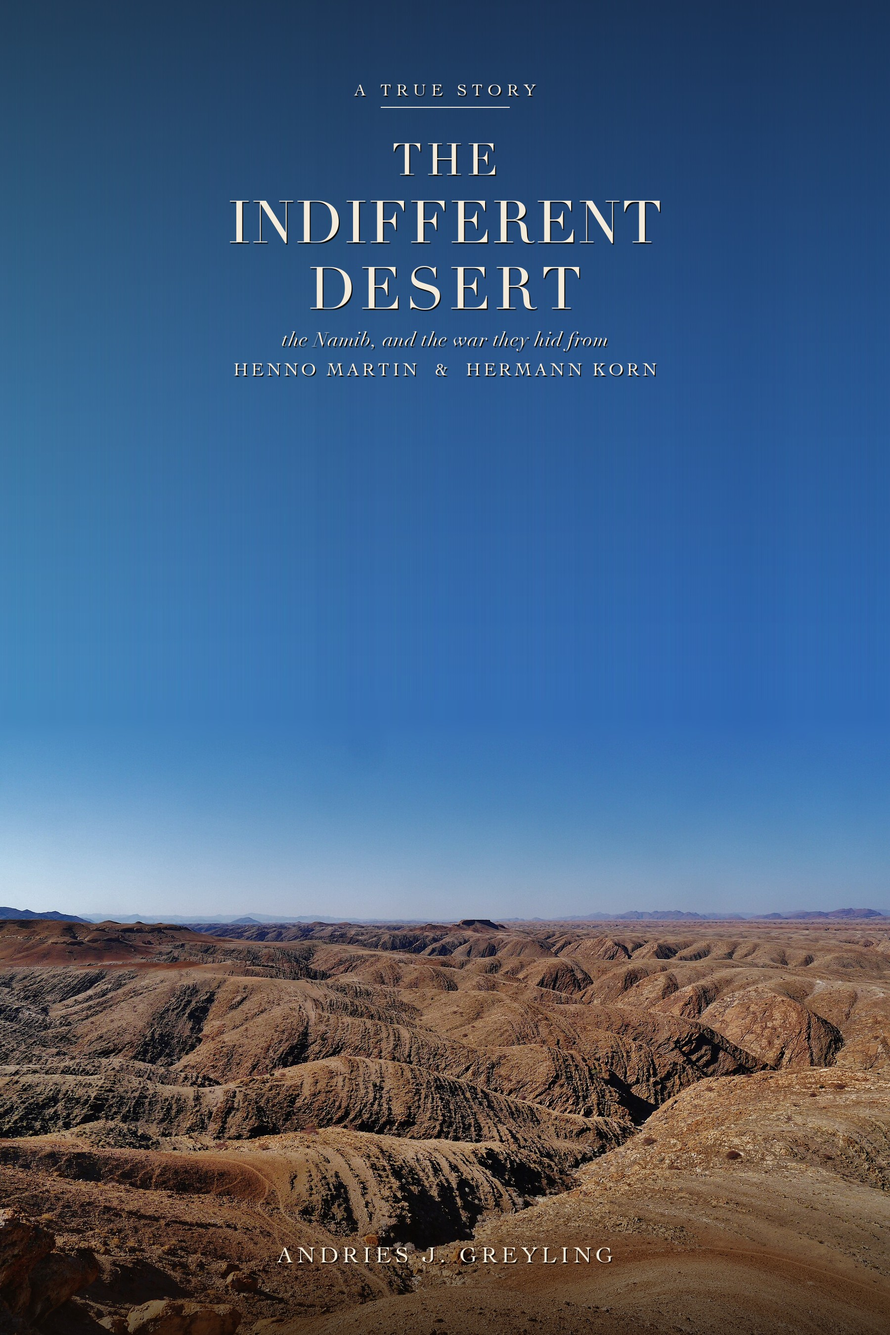
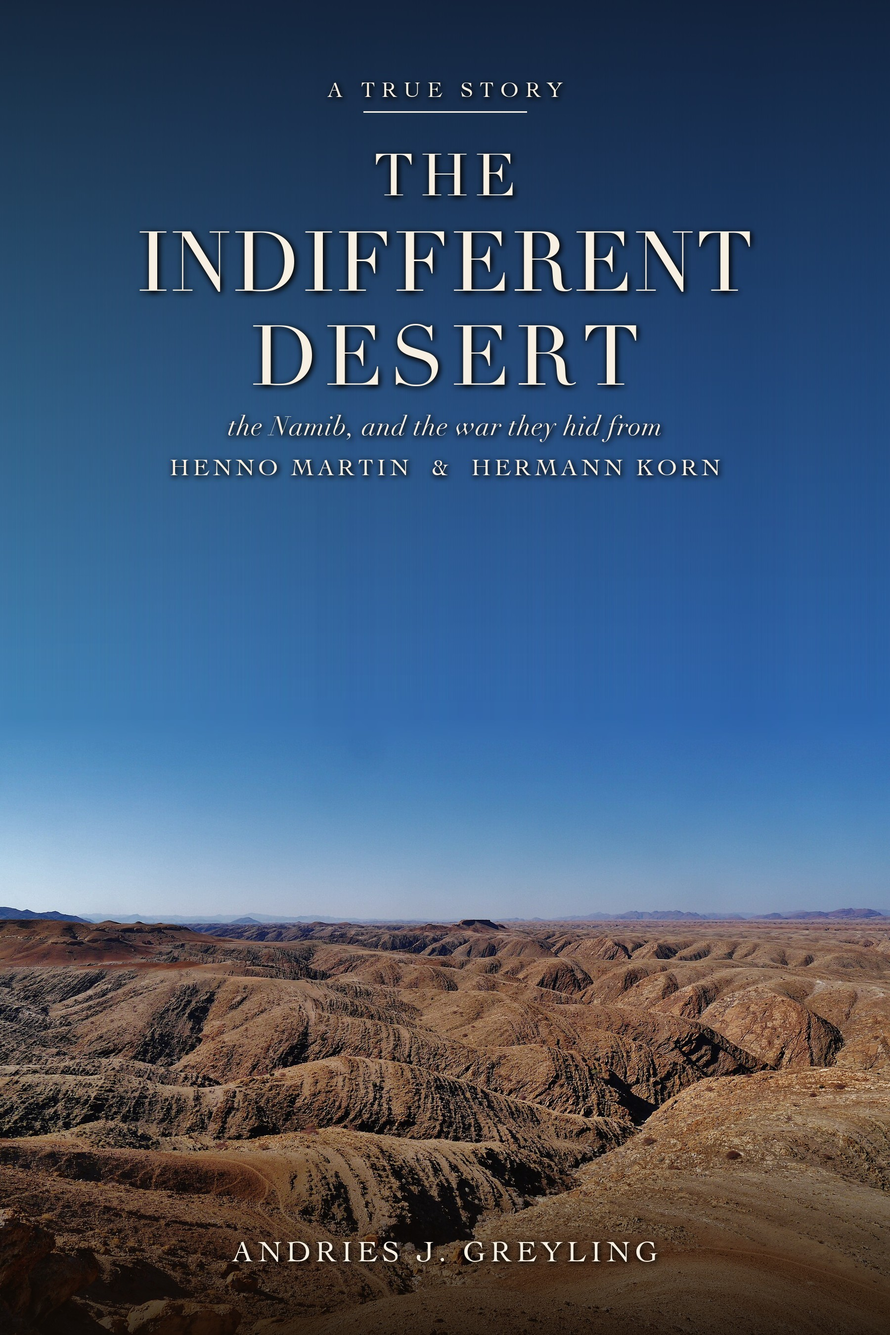
Covers: enlarge + strengthen title typography for legibility
Both *The Indifferent Desert* and *A Man They All Read Wrong* had thin
Didot title type set small for the 1800x2700 plate, dissolving into the
bright sky / sunburst behind it. Scale the title and supporting lines up,
and replace the flat 2px drop-shadow with a blurred dark glow (the
already-imported ImageFilter) plus deeper legibility scrims so the strokes
hold up over the busy artwork. Scripts remain re-runnable from the plate.

diff --git a/books/the-sheltering-desert/design/make_cover.py b/books/the-sheltering-desert/design/make_cover.py
@@ -16,8 +16,8 @@ PLATE = HERE / "cover-plate.png"
 OUT_PNG = [HERE / "cover.png", HERE.parent / "build" / "export" / "cover.png"]
 OUT_JPG = HERE / "cover.jpg"
 
-INK = (244, 234, 217, 255)        # warm off-white
-SHADOW = (16, 10, 5, 205)         # warm near-black
+INK = (247, 239, 225, 255)        # warm off-white
+SHADOW = (10, 6, 3, 235)          # warm near-black, near-opaque for punch
 
 DIDOT = "/System/Library/Fonts/Supplemental/Didot.ttc"
 COCHIN = "/System/Library/Fonts/Supplemental/Cochin.ttc"
@@ -34,15 +34,34 @@ def text_width(draw, s, fnt, tracking):
     return w - tracking if s else 0
 
 
-def draw_tracked(draw, cx, y, s, fnt, tracking, fill, shadow=True):
-    """Draw letter-spaced text centred on cx at baseline-top y."""
-    total = text_width(draw, s, fnt, tracking)
+def _place_glyphs(d, cx, y, s, fnt, tracking, fill, dx=0, dy=0):
+    """Letter-space string s centred on cx, drawn into draw-context d with optional offset."""
+    total = text_width(d, s, fnt, tracking)
     x = cx - total / 2
     for ch in s:
-        if shadow:
-            draw.text((x + 2, y + 3), ch, font=fnt, fill=SHADOW)
-        draw.text((x, y), ch, font=fnt, fill=fill)
-        x += draw.textlength(ch, font=fnt) + tracking
+        d.text((x + dx, y + dy), ch, font=fnt, fill=fill)
+        x += d.textlength(ch, font=fnt) + tracking
+
+
+def draw_tracked(img, cx, y, s, fnt, tracking, fill, shadow=True, glow=6):
+    """Draw letter-spaced text centred on cx at baseline-top y, onto RGBA image `img`.
+
+    A blurred dark copy is laid down first as a soft glow/shadow (so the thin Didot
+    strokes hold up over the bright sky and busy rock), then the crisp ink on top.
+    Returns the composited image.
+    """
+    if shadow:
+        layer = Image.new("RGBA", img.size, (0, 0, 0, 0))
+        ld = ImageDraw.Draw(layer)
+        _place_glyphs(ld, cx, y, s, fnt, tracking, SHADOW, dx=2, dy=3)
+        layer = layer.filter(ImageFilter.GaussianBlur(glow))
+        # darken twice so the soft halo reads as a real shadow, not a faint smudge
+        img = Image.alpha_composite(img, layer)
+        img = Image.alpha_composite(img, layer)
+    top = Image.new("RGBA", img.size, (0, 0, 0, 0))
+    td = ImageDraw.Draw(top)
+    _place_glyphs(td, cx, y, s, fnt, tracking, fill)
+    return Image.alpha_composite(img, top)
 
 
 def main() -> None:
@@ -50,48 +69,48 @@ def main() -> None:
     W, H = img.size
     cx = W / 2
 
-    # --- legibility scrims (subtle; preserve the photo). The title sits in the upper sky,
-    #     so darken the top band more; a light foot scrim seats the author over the rock. ---
+    # --- legibility scrims. The title sits in the upper sky, so darken the top band
+    #     firmly; a stronger foot scrim seats the author over the busy rock. Deeper and
+    #     reaching a little further down than before, to carry the larger type. ---
     scrim = Image.new("RGBA", (W, H), (0, 0, 0, 0))
     sd = ImageDraw.Draw(scrim)
-    top_end = int(H * 0.52)
+    top_end = int(H * 0.62)
     for y in range(top_end):
-        a = int(150 * (1 - y / top_end) ** 1.5)
-        sd.line([(0, y), (W, y)], fill=(14, 22, 38, a))   # cool, matches the sky
-    bot_start = int(H * 0.86)
+        a = int(205 * (1 - y / top_end) ** 1.35)
+        sd.line([(0, y), (W, y)], fill=(12, 20, 36, a))   # cool, matches the sky
+    bot_start = int(H * 0.82)
     for y in range(bot_start, H):
-        a = int(160 * ((y - bot_start) / (H - bot_start)) ** 1.3)
-        sd.line([(0, y), (W, y)], fill=(20, 12, 7, a))
+        a = int(205 * ((y - bot_start) / (H - bot_start)) ** 1.25)
+        sd.line([(0, y), (W, y)], fill=(18, 11, 6, a))
     img = Image.alpha_composite(img, scrim)
 
-    draw = ImageDraw.Draw(img)
-
     # --- eyebrow ---
-    f_eyebrow = font(COCHIN, 34)
-    draw_tracked(draw, cx, int(H * 0.060), "A TRUE STORY", f_eyebrow, 10, INK)
+    f_eyebrow = font(COCHIN, 44)
+    img = draw_tracked(img, cx, int(H * 0.058), "A TRUE STORY", f_eyebrow, 13, INK)
 
-    rule_y = int(H * 0.060) + 54
-    rw = 130
-    draw.line([(cx - rw, rule_y), (cx + rw, rule_y)], fill=INK, width=2)
+    rule_y = int(H * 0.058) + 70
+    rw = 165
+    rd = ImageDraw.Draw(img)
+    rd.line([(cx - rw, rule_y), (cx + rw, rule_y)], fill=INK, width=3)
 
     # --- title, stacked (THE / INDIFFERENT / DESERT) ---
-    ty = int(H * 0.100)
-    f_the = font(DIDOT, 88)
-    draw_tracked(draw, cx, ty, "THE", f_the, 10, INK)
-    f_title = font(DIDOT, 118)
-    draw_tracked(draw, cx, ty + 108, "INDIFFERENT", f_title, 3, INK)
-    draw_tracked(draw, cx, ty + 108 + 134, "DESERT", f_title, 9, INK)
+    ty = int(H * 0.105)
+    f_the = font(DIDOT, 118)
+    img = draw_tracked(img, cx, ty, "THE", f_the, 14, INK)
+    f_title = font(DIDOT, 168)
+    img = draw_tracked(img, cx, ty + 146, "INDIFFERENT", f_title, 4, INK)
+    img = draw_tracked(img, cx, ty + 146 + 190, "DESERT", f_title, 13, INK)
 
     # --- subtitle: the evocative line, then the two real men it is about ---
-    sub_y = ty + 108 + 134 + 150
-    f_sub = font(DIDOT, 40, index=1)  # italic face
-    draw_tracked(draw, cx, sub_y, "the Namib, and the war they hid from", f_sub, 1, INK)
-    f_names = font(COCHIN, 36)
-    draw_tracked(draw, cx, sub_y + 64, "HENNO MARTIN  &  HERMANN KORN", f_names, 6, INK)
+    sub_y = ty + 146 + 190 + 210
+    f_sub = font(DIDOT, 54, index=1)  # italic face
+    img = draw_tracked(img, cx, sub_y, "the Namib, and the war they hid from", f_sub, 1, INK)
+    f_names = font(COCHIN, 48)
+    img = draw_tracked(img, cx, sub_y + 88, "HENNO MARTIN  &  HERMANN KORN", f_names, 7, INK)
 
     # --- author at the foot ---
-    f_auth = font(COCHIN, 46)
-    draw_tracked(draw, cx, int(H * 0.93), "ANDRIES J. GREYLING", f_auth, 8, INK)
+    f_auth = font(COCHIN, 60)
+    img = draw_tracked(img, cx, int(H * 0.925), "ANDRIES J. GREYLING", f_auth, 9, INK)
 
     out = img.convert("RGB")
     for p in OUT_PNG:

diff --git a/books/history-before-time/books/the-jakobus-file/design/make_cover.py b/books/history-before-time/books/the-jakobus-file/design/make_cover.py
@@ -23,8 +23,8 @@ OUT = [
     BOOK / "build" / "export" / "cover.jpg",
 ]
 
-INK = (244, 234, 217, 255)
-SHADOW = (20, 12, 6, 200)
+INK = (247, 239, 225, 255)
+SHADOW = (8, 5, 2, 235)            # near-opaque warm black, for punch over the busy plate
 
 DIDOT = "/System/Library/Fonts/Supplemental/Didot.ttc"
 COCHIN = "/System/Library/Fonts/Supplemental/Cochin.ttc"
@@ -42,14 +42,34 @@ def text_width(draw, s, fnt, tracking):
     return w - tracking if s else 0
 
 
-def draw_tracked(draw, cx, y, s, fnt, tracking, fill, shadow=True):
-    total = text_width(draw, s, fnt, tracking)
+def _place_glyphs(d, cx, y, s, fnt, tracking, fill, dx=0, dy=0):
+    """Letter-space string s centred on cx, drawn into draw-context d with optional offset."""
+    total = text_width(d, s, fnt, tracking)
     x = cx - total / 2
     for ch in s:
-        if shadow:
-            draw.text((x + 2, y + 3), ch, font=fnt, fill=SHADOW)
-        draw.text((x, y), ch, font=fnt, fill=fill)
-        x += draw.textlength(ch, font=fnt) + tracking
+        d.text((x + dx, y + dy), ch, font=fnt, fill=fill)
+        x += d.textlength(ch, font=fnt) + tracking
+
+
+def draw_tracked(img, cx, y, s, fnt, tracking, fill, shadow=True, glow=6):
+    """Draw letter-spaced text centred on cx at baseline-top y, onto RGBA image `img`.
+
+    A blurred dark copy is laid down first as a soft glow/shadow (so the thin Didot
+    strokes hold up over the bright sunburst and busy bush), then the crisp ink on top.
+    Returns the composited image.
+    """
+    if shadow:
+        layer = Image.new("RGBA", img.size, (0, 0, 0, 0))
+        ld = ImageDraw.Draw(layer)
+        _place_glyphs(ld, cx, y, s, fnt, tracking, SHADOW, dx=2, dy=3)
+        layer = layer.filter(ImageFilter.GaussianBlur(glow))
+        # darken twice so the soft halo reads as a real shadow, not a faint smudge
+        img = Image.alpha_composite(img, layer)
+        img = Image.alpha_composite(img, layer)
+    top = Image.new("RGBA", img.size, (0, 0, 0, 0))
+    td = ImageDraw.Draw(top)
+    _place_glyphs(td, cx, y, s, fnt, tracking, fill)
+    return Image.alpha_composite(img, top)
 
 
 def main() -> None:
@@ -57,57 +77,57 @@ def main() -> None:
     W, H = img.size
     cx = W / 2
 
+    # Stronger, deeper top scrim: the title stack sits over the brightest part of this
+    # plate (the sunburst), so it needs firm darkening to carry the larger type.
     scrim = Image.new("RGBA", (W, H), (0, 0, 0, 0))
     sd = ImageDraw.Draw(scrim)
-    top_end = int(H * 0.42)
+    top_end = int(H * 0.56)
     for y in range(top_end):
-        a = int(175 * (1 - y / top_end) ** 1.4)
-        sd.line([(0, y), (W, y)], fill=(28, 18, 10, a))
-    bot_start = int(H * 0.84)
+        a = int(215 * (1 - y / top_end) ** 1.25)
+        sd.line([(0, y), (W, y)], fill=(26, 16, 9, a))
+    bot_start = int(H * 0.82)
     for y in range(bot_start, H):
-        a = int(155 * ((y - bot_start) / (H - bot_start)) ** 1.3)
-        sd.line([(0, y), (W, y)], fill=(22, 13, 7, a))
+        a = int(200 * ((y - bot_start) / (H - bot_start)) ** 1.25)
+        sd.line([(0, y), (W, y)], fill=(20, 12, 6, a))
     img = Image.alpha_composite(img, scrim)
 
-    draw = ImageDraw.Draw(img)
+    f_series = font(COCHIN, 42)
+    img = draw_tracked(img, cx, int(H * 0.046), "HISTORY BEFORE TIME", f_series, 11, INK)
 
-    f_series = font(COCHIN, 33)
-    draw_tracked(draw, cx, int(H * 0.048), "HISTORY BEFORE TIME", f_series, 9, INK)
+    f_file = font(COPPER, 35)
+    img = draw_tracked(img, cx, int(H * 0.080), "THE JAKOBUS SWART FILE", f_file, 7, INK)
 
-    f_file = font(COPPER, 28)
-    draw_tracked(draw, cx, int(H * 0.082), "THE JAKOBUS SWART FILE", f_file, 6, INK)
+    rule_y = int(H * 0.080) + 58
+    rw = 185
+    rd = ImageDraw.Draw(img)
+    rd.line([(cx - rw, rule_y), (cx + rw, rule_y)], fill=INK, width=3)
 
-    rule_y = int(H * 0.082) + 46
-    rw = 150
-    draw.line([(cx - rw, rule_y), (cx + rw, rule_y)], fill=INK, width=2)
-
-    f_title = font(DIDOT, 118)
+    f_title = font(DIDOT, 158)
     lines = ["A MAN", "THEY ALL", "READ WRONG"]
-    ty = int(H * 0.118)
-    lh = 128
+    ty = int(H * 0.120)
+    lh = 172
     for i, ln in enumerate(lines):
-        draw_tracked(draw, cx, ty + i * lh, ln, f_title, 4, INK)
+        img = draw_tracked(img, cx, ty + i * lh, ln, f_title, 4, INK)
 
     # Subtitle crosses the bright sunset glow behind the figure on this plate, so lay a soft
     # local scrim band under it for legibility before drawing the italic.
-    f_sub = font(DIDOT, 36, index=1)
+    f_sub = font(DIDOT, 48, index=1)
     sub = "assembled, after his death"
-    sub_y = ty + 3 * lh + 10
-    sub_w = text_width(draw, sub, f_sub, 1)
+    sub_y = ty + 3 * lh + 16
+    sub_w = text_width(ImageDraw.Draw(img), sub, f_sub, 1)
     band = Image.new("RGBA", (W, H), (0, 0, 0, 0))
     bd = ImageDraw.Draw(band)
-    pad_x, pad_y = 60, 14
+    pad_x, pad_y = 76, 18
     bd.rounded_rectangle(
-        [cx - sub_w / 2 - pad_x, sub_y - pad_y, cx + sub_w / 2 + pad_x, sub_y + 48 + pad_y],
-        radius=26, fill=(18, 11, 6, 120),
+        [cx - sub_w / 2 - pad_x, sub_y - pad_y, cx + sub_w / 2 + pad_x, sub_y + 62 + pad_y],
+        radius=32, fill=(16, 10, 5, 140),
     )
-    band = band.filter(ImageFilter.GaussianBlur(18))
+    band = band.filter(ImageFilter.GaussianBlur(22))
     img = Image.alpha_composite(img, band)
-    draw = ImageDraw.Draw(img)
-    draw_tracked(draw, cx, sub_y, sub, f_sub, 1, INK)
+    img = draw_tracked(img, cx, sub_y, sub, f_sub, 1, INK)
 
-    f_auth = font(COCHIN, 44)
-    draw_tracked(draw, cx, int(H * 0.93), "ANDRIES J. GREYLING", f_auth, 7, INK)
+    f_auth = font(COCHIN, 58)
+    img = draw_tracked(img, cx, int(H * 0.925), "ANDRIES J. GREYLING", f_auth, 8, INK)
 
     out = img.convert("RGB")
     for p in OUT:
